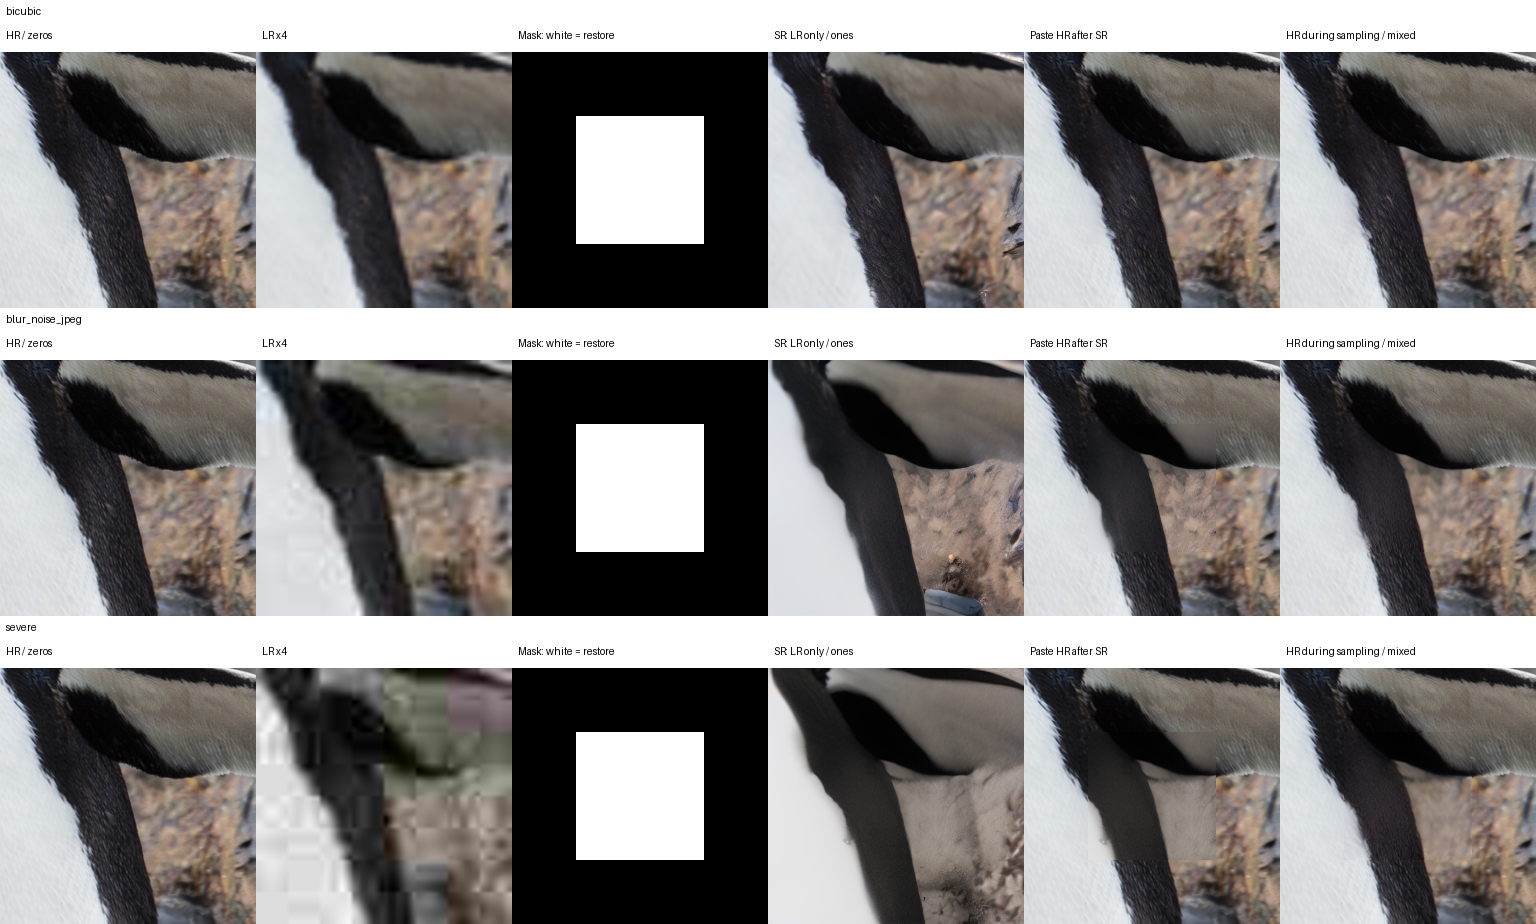
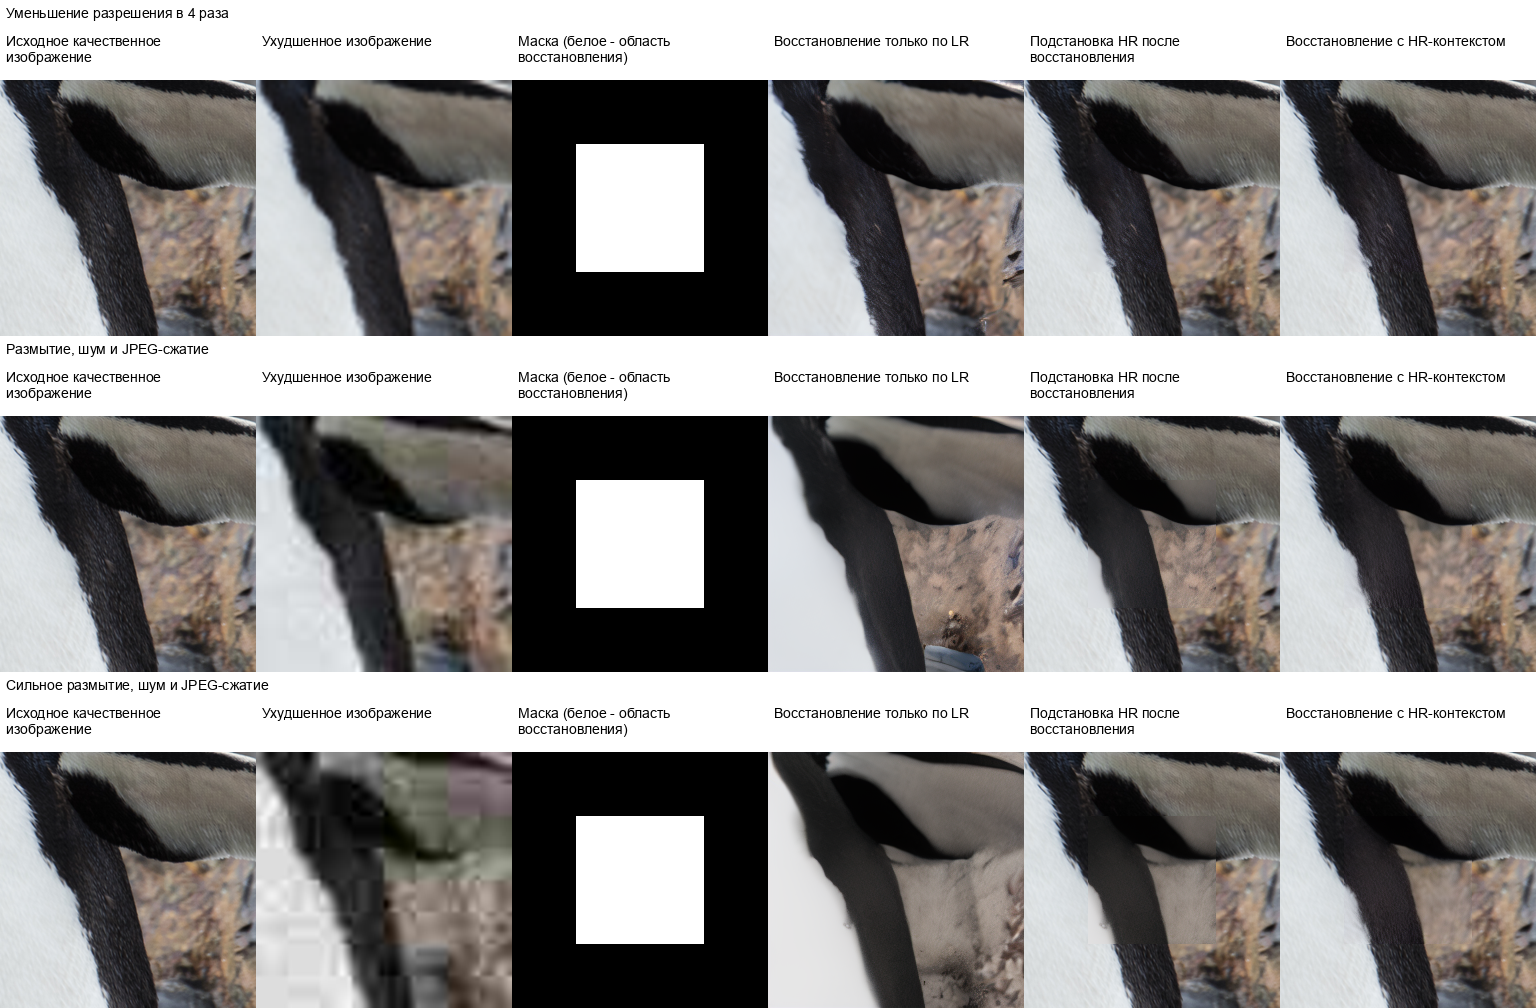
Change figure legends

diff --git a/lab3.2/source/image_processing.py b/lab3.2/source/image_processing.py
@@ -2,7 +2,7 @@ from io import BytesIO
 from pathlib import Path
 
 import numpy as np
-from PIL import Image, ImageDraw, ImageFilter, ImageOps
+from PIL import Image, ImageDraw, ImageFilter, ImageFont, ImageOps
 
 DEGRADATIONS = {
     'bicubic': (0.0, 0.0, None),
@@ -87,15 +87,29 @@ def composite(restored, known_hr, mask_hr):
 
 
 def save_collage(path, rows):
-    size, header, label = 256, 28, 24
+    size, header, label = 256, 30, 50
+    font = ImageFont.truetype('arial.ttf', 14)
+    degradation_titles = {
+        'bicubic': 'Уменьшение разрешения в 4 раза',
+        'blur_noise_jpeg': 'Размытие, шум и JPEG-сжатие',
+        'severe': 'Сильное размытие, шум и JPEG-сжатие',
+    }
     canvas = Image.new('RGB', (size * len(rows[0][1]), (size + header + label) * len(rows)), 'white')
     draw = ImageDraw.Draw(canvas)
     for row, (degradation, panels) in enumerate(rows):
         top = row * (size + header + label)
-        draw.text((6, top + 5), degradation, fill='black')
+        draw.text((6, top + 5), degradation_titles[degradation], fill='black', font=font)
         for column, (title, pixels) in enumerate(panels):
             left = column * size
             image = Image.fromarray(pixels).convert('RGB').resize((size, size), Image.Resampling.NEAREST)
             canvas.paste(image, (left, top + header + label))
-            draw.text((left + 6, top + label + 5), title, fill='black')
+            lines = ['']
+            for word in title.split():
+                candidate = (lines[-1] + ' ' + word).strip()
+                if draw.textlength(candidate, font=font) > size - 12:
+                    lines.append(word)
+                else:
+                    lines[-1] = candidate
+            draw.multiline_text((left + 6, top + header + 3), '\n'.join(lines),
+                                fill='black', font=font, spacing=3)
     canvas.save(path, format='PNG')

diff --git a/lab3.2/source/main.py b/lab3.2/source/main.py
@@ -53,12 +53,12 @@ def main():
                                  'mode': mode, **scores})
             write_csv(output / 'metrics.csv', rows)
             collage.append((degradation, [
-                ('HR', hr),
-                ('LR', lr_up),
-                ('Mask', mask_hr.astype(np.uint8) * 255),
-                ('SR: LR only / ones', results['ones']),
-                ('Paste HR after SR', results['paste_only']),
-                ('HR during sampling / mixed', results['mixed']),
+                ('Исходное качественное изображение', hr),
+                ('Ухудшенное изображение', lr_up),
+                ('Маска (белое - область восстановления)', mask_hr.astype(np.uint8) * 255),
+                ('Восстановление только по LR', results['ones']),
+                ('Подстановка HR после восстановления', results['paste_only']),
+                ('Восстановление с HR-контекстом', results['mixed']),
             ]))
         save_collage(output / f'{path.stem}.png', collage)
     print(f'Results: {output}', flush=True)
